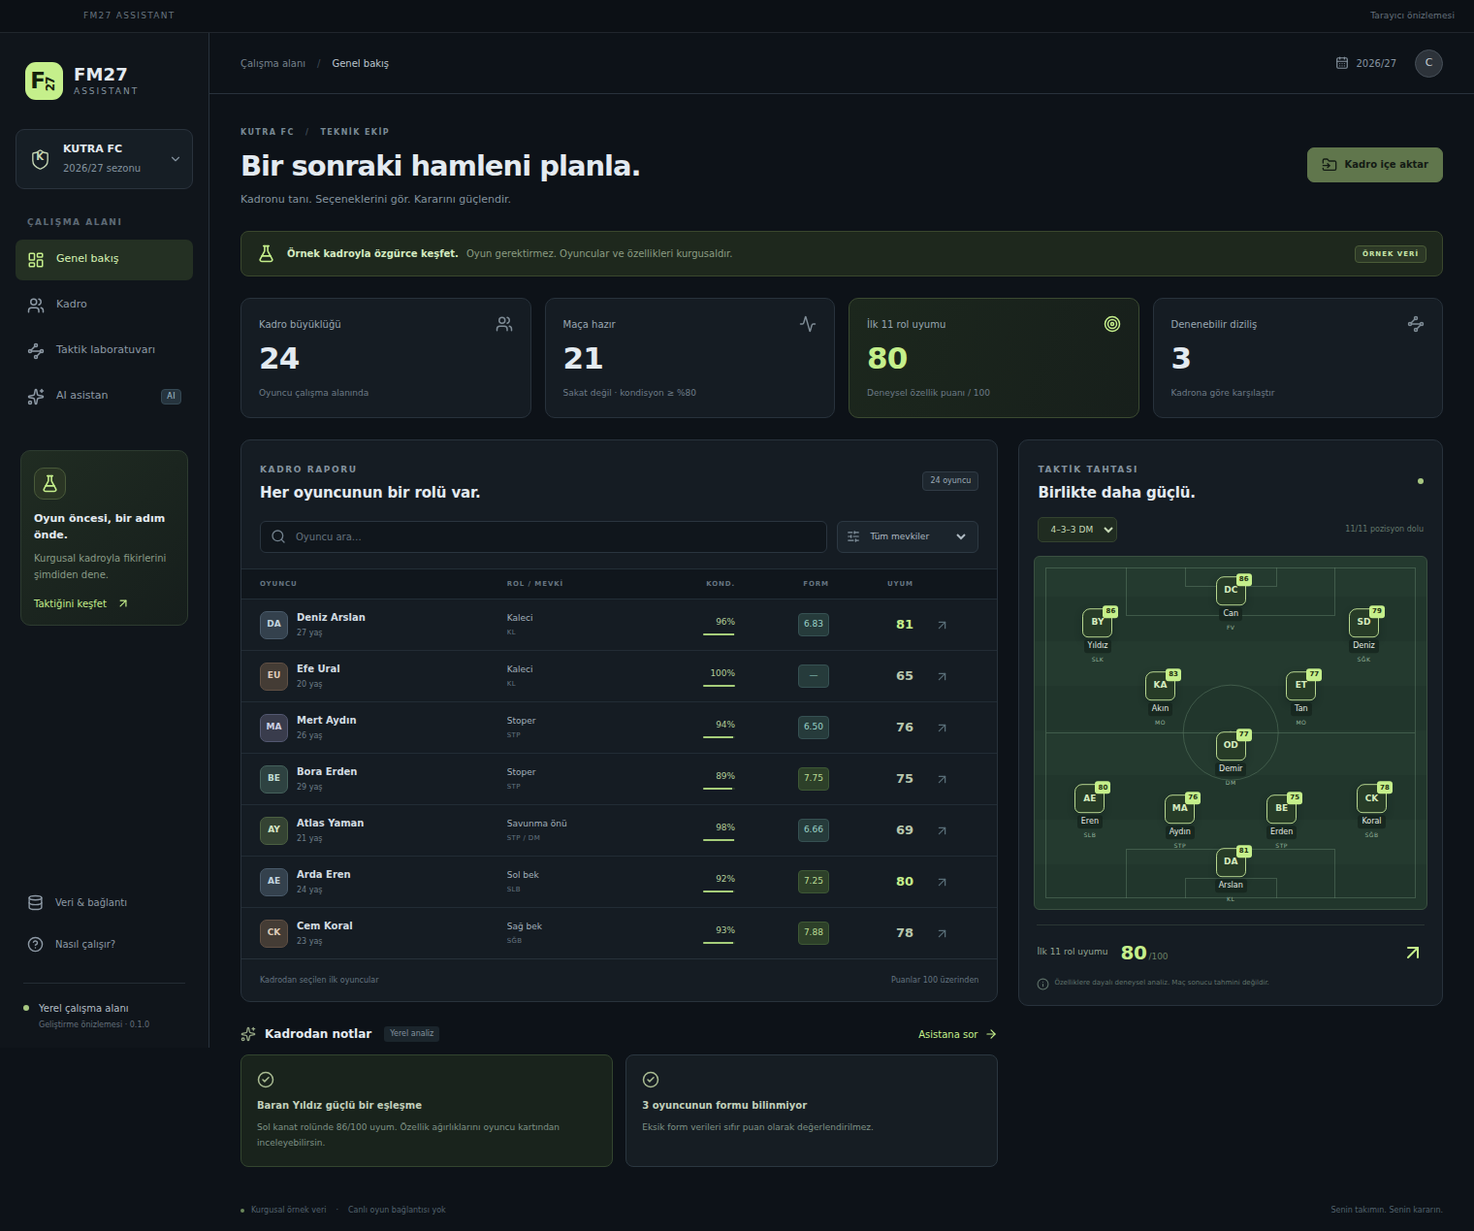
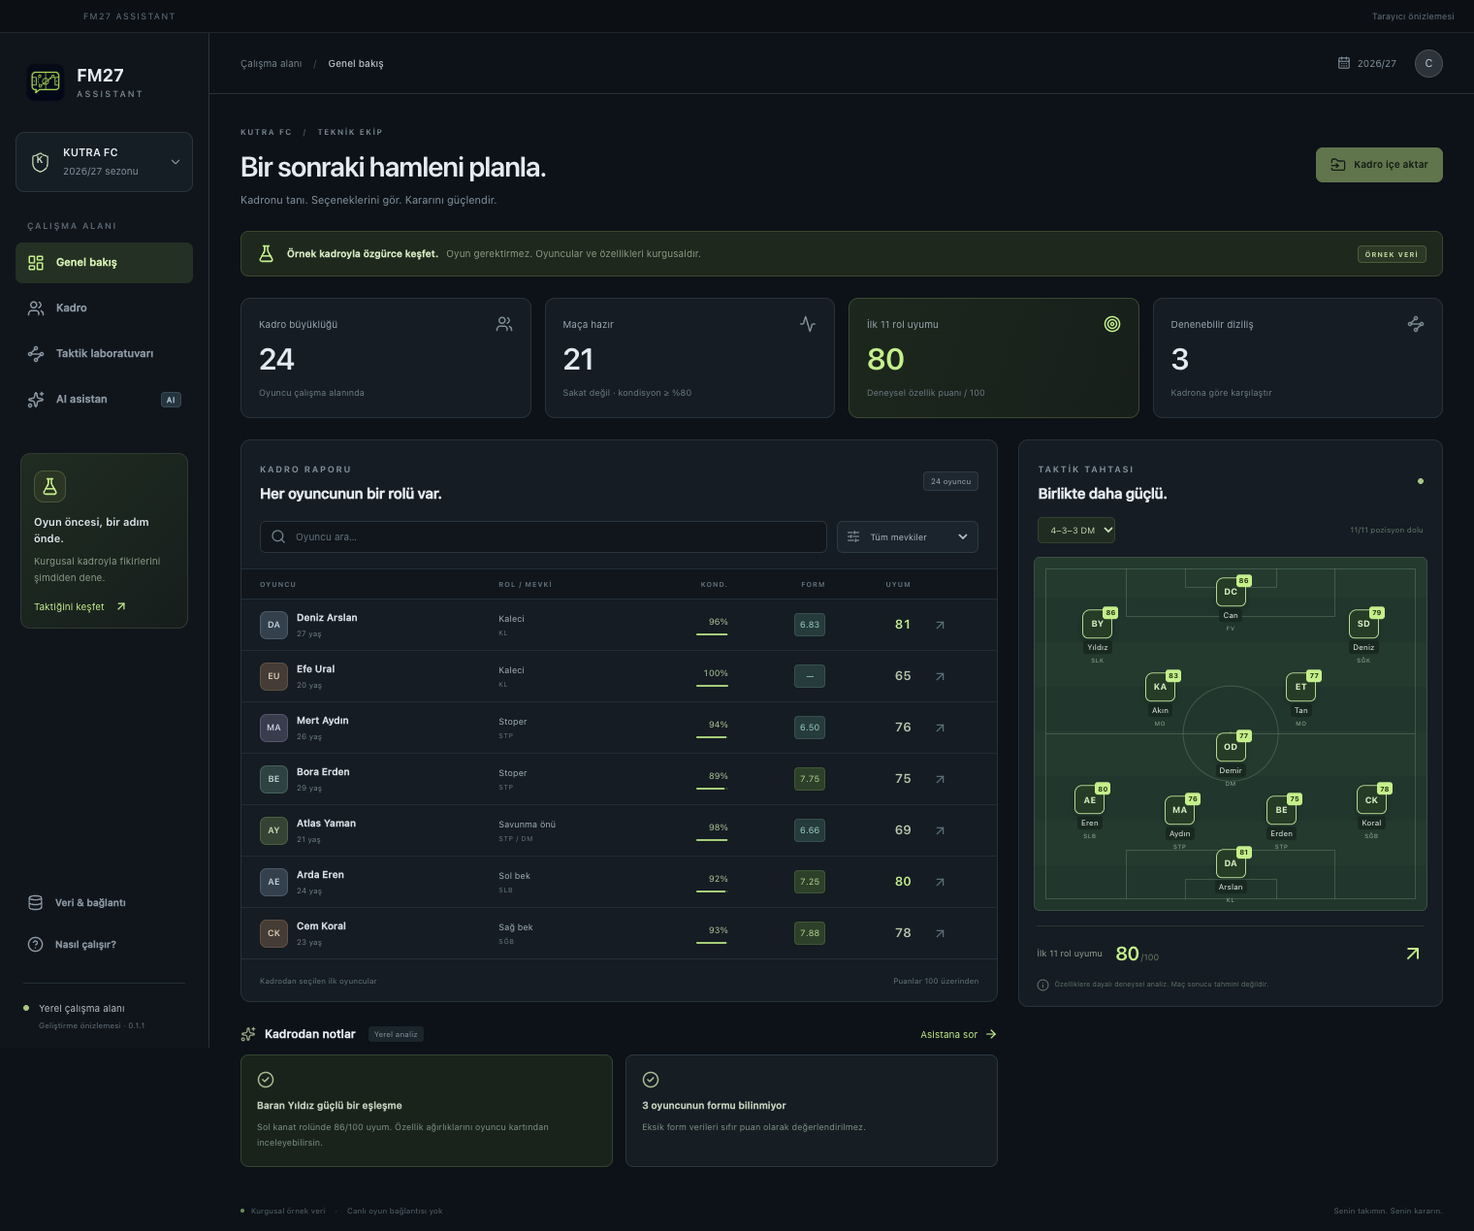
Brand the macOS preview and publish English project documentation

diff --git a/desktop/src/App.tsx b/desktop/src/App.tsx
@@ -1,6 +1,7 @@
 import { useCallback, useEffect, useRef, useState } from 'react';
 import { Activity, ArrowRight, ArrowUpRight, CalendarDays, CheckCircle2, ChevronDown, CircleHelp, Database, FlaskConical, FolderInput, LayoutDashboard, LoaderCircle, Shield, Sparkles, Target, Users, Waypoints, X } from 'lucide-react';
 import { api, native } from './api';
+import appIcon from './assets/fm27-icon.png';
 import { FORMATIONS, scoreText } from './types';
 import type { Dashboard, Formation, PlayerDetail, PlayerPage, Position } from './types';
 import Pitch from './components/Pitch';
@@ -96,11 +97,11 @@ export default function App() {
   const table = <PlayerTable page={page} search={search} position={position} onSearch={s => { setSearch(s); setOffset(0); }} onPosition={p => { setPosition(p); setOffset(0); }} onPlayer={id => { void openPlayer(id); }} onPage={setOffset} loading={loading} compact={view === 'overview'} />;
   return <div className="app-shell">
     <div className="window-drag" data-tauri-drag-region><span>FM27 ASSISTANT</span><span>{native ? 'Kişisel çalışma alanı' : 'Tarayıcı önizlemesi'}</span></div>
-    <aside className="sidebar"><button className="brand" onClick={() => setView('overview')} aria-label="Genel bakışa dön"><span className="brand-mark">F<span>27</span></span><span className="brand-word">FM27<span>ASSISTANT</span></span></button>
+    <aside className="sidebar"><button className="brand" onClick={() => setView('overview')} aria-label="Genel bakışa dön"><img className="brand-symbol" src={appIcon} alt="" width={42} height={42} /><span className="brand-word">FM27<span>ASSISTANT</span></span></button>
       <button className="club-switch" onClick={() => setView('data')}><span className="club-crest"><Shield size={23} strokeWidth={1.4} /><b>K</b></span><span><strong>{dashboard.club}</strong><small>{dashboard.season} sezonu</small></span><ChevronDown size={14} /></button>
       <span className="nav-heading">ÇALIŞMA ALANI</span><nav aria-label="Ana menü">{navigation.map(item => <button key={item.id} aria-label={item.label} className={view === item.id ? 'active' : ''} onClick={() => setView(item.id)} aria-current={view === item.id ? 'page' : undefined}><item.icon size={18} /><span>{item.label}</span>{item.id === 'assistant' ? <span className="nav-ai">AI</span> : null}</button>)}</nav>
       <div className="sidebar-note"><span className="note-orbit"><FlaskConical size={19} /></span><strong>Oyun öncesi, bir adım önde.</strong><p>Kurgusal kadroyla fikirlerini şimdiden dene.</p><button onClick={() => setView('tactics')}>Taktiğini keşfet <ArrowUpRight size={14} /></button></div>
-      <div className="sidebar-bottom"><button className={view === 'data' ? 'active' : ''} onClick={() => setView('data')}><Database size={17} />Veri & bağlantı</button><button onClick={() => { setView('data'); }}><CircleHelp size={17} />Nasıl çalışır?</button><div className="local-status"><span className="status-dot" /><span>Yerel çalışma alanı<small>Geliştirme önizlemesi · 0.1.0</small></span></div></div>
+      <div className="sidebar-bottom"><button className={view === 'data' ? 'active' : ''} onClick={() => setView('data')}><Database size={17} />Veri & bağlantı</button><button onClick={() => { setView('data'); }}><CircleHelp size={17} />Nasıl çalışır?</button><div className="local-status"><span className="status-dot" /><span>Yerel çalışma alanı<small>Geliştirme önizlemesi · 0.1.1</small></span></div></div>
     </aside>
     <main className="main-area"><header className="topbar"><div className="breadcrumb">Çalışma alanı<span>/</span><strong>{view === 'data' ? 'Veri & bağlantı' : navigation.find(n => n.id === view)?.label}</strong></div><div className="topbar-right"><span className="season-label"><CalendarDays size={14} />{dashboard.season}</span><span className="user-avatar">C</span></div></header>
       <div className="page-content"><div className="page-heading"><div><span className="eyebrow">{dashboard.club} <span className="eyebrow-slash">/</span> TEKNİK EKİP</span><h1>{headings[view].title}</h1><p>{headings[view].subtitle}</p></div><button className="button primary" onClick={() => fileInput.current?.click()} disabled={busy || chatBusy || !native}><FolderInput size={16} />Kadro içe aktar</button></div>

diff --git a/desktop/src/styles.css b/desktop/src/styles.css
@@ -23,8 +23,7 @@ svg { flex-shrink: 0; }
 .app-shell { min-height: 100vh; padding-top: 34px; }
 .sidebar { position: fixed; z-index: 20; inset: 34px auto 0 0; width: 216px; border-right: 1px solid var(--line); background: #10151b; display: flex; flex-direction: column; padding: 30px 16px 17px; }
 .brand { display: flex; align-items: center; gap: 11px; padding: 0 10px; border: 0; background: transparent; text-align: left; margin-bottom: 30px; }
-.brand-mark { height: 39px; width: 39px; display: flex; align-items: center; justify-content: center; font-size: 23px; line-height: 1; color: #15220b; font-weight: 850; border-radius: 11px; background: var(--lime); letter-spacing: -2px; }
-.brand-mark > span { font-size: 12px; transform: rotate(-90deg); margin: 6px 0 0 0; letter-spacing: -1px; }
+.brand-symbol { display: block; flex-shrink: 0; width: 42px; height: 42px; object-fit: contain; }
 .brand-word { font-size: 18px; font-weight: 730; line-height: 1.1; letter-spacing: .2px; }.brand-word > span { display: block; margin-top: 4px; font-size: 9px; color: var(--muted); font-weight: 500; letter-spacing: 2px; }
 .club-switch { width: 100%; display: flex; align-items: center; gap: 10px; padding: 12px 10px; border: 1px solid #2a333d; border-radius: 9px; background: #161e25; text-align: left; margin-bottom: 28px; }
 .club-switch > svg { margin-left: auto; color: var(--muted); }.club-switch strong { display: block; font-size: 11px; font-weight: 620; }.club-switch small { color: var(--muted); font-size: 10px; }

diff --git a/desktop/index.html b/desktop/index.html
@@ -5,6 +5,7 @@
     <meta name="viewport" content="width=device-width, initial-scale=1.0" />
     <meta name="color-scheme" content="dark" />
     <meta name="description" content="FM27 için kişisel kadro ve taktik çalışma alanı" />
+    <link rel="icon" type="image/png" href="/src/assets/fm27-icon.png" />
     <title>FM27 Assistant</title>
   </head>
   <body><div id="root"></div><script type="module" src="/src/main.tsx"></script></body>

diff --git a/desktop/crates/fm27-core/src/codex.rs b/desktop/crates/fm27-core/src/codex.rs
@@ -369,7 +369,7 @@ impl Session {
             next_id: 1,
             partial: Vec::new(),
         };
-        session.rpc("initialize", json!({"clientInfo":{"name":"fm27_assistant","title":"FM27 Assistant","version":"0.1.0"}}), &mut |_| Ok(())).await?;
+        session.rpc("initialize", json!({"clientInfo":{"name":"fm27_assistant","title":"FM27 Assistant","version":env!("CARGO_PKG_VERSION")}}), &mut |_| Ok(())).await?;
         session.send(json!({"method":"initialized"})).await?;
         Ok(session)
     }

diff --git a/README.md b/README.md
@@ -1,50 +1,66 @@
-# FM27 Assistant
+<p align="center">
+  <img src="desktop/src/assets/fm27-icon.png" width="112" height="112" alt="FM27 Assistant app icon">
+</p>
 
-Can için özel, oyun öncesinde de kullanılabilen bir taktik çalışma alanı.
-Aktif geliştirme **Rust + Tauri 2 + React + SQLite** üzerinde `desktop/` altında sürüyor.
+<h1 align="center">FM27 Assistant</h1>
+<p align="center"><strong>Your squad. Your system. Your next move.</strong></p>
+<p align="center">A personal football tactics workspace for macOS, built with Rust and Tauri.<br>Explore your squad, compare formations and discuss your decisions with an AI assistant.</p>
+<p align="center"><a href="https://github.com/cozcanco-hash/Fm27-Assistant/actions/workflows/rust-desktop.yml"><img src="https://github.com/cozcanco-hash/Fm27-Assistant/actions/workflows/rust-desktop.yml/badge.svg" alt="Rust desktop checks"></a></p>
+<p align="center"><a href="#try-it-on-mac">Try it on Mac</a> · <a href="#features">Features</a> · <a href="TESTING.md">Testing guide</a> · <a href="desktop/README.md">Developer docs</a></p>
 
-## İlk Rust Mac sürümü — 6 Kasım 2026
+![FM27 Assistant dashboard with a fictional squad, browser preview](screenshots/rust-desktop-overview.png)
 
-[Apple Silicon paketini indir](https://github.com/cozcanco-hash/Fm27-Assistant/actions/runs/42180058741/artifacts/13485093096).
-İndirilen ZIP içinde `.dmg`, `.app` arşivi ve SHA-256 kontrol dosyası bulunur.
-Paket 20 Kasım 2026'ya kadar saklanır; sonraki derlemeler Actions bölümünden alınabilir.
-Bu, ad-hoc imzalı bir geliştirici önizlemesidir.
+## Try it on Mac
 
-[Doğrulanan kaynak: `fa66465`](https://github.com/cozcanco-hash/Fm27-Assistant/commit/fa66465e02e145e6f7ca0ca4827ff5e85248ee39).
-[Başarılı test ve paketleme çalıştırması](https://github.com/cozcanco-hash/Fm27-Assistant/actions/runs/42180058741):
-**21 Rust testi + 4 arayüz testi başarılı**. Mac'teki gerçek paket WebView'i açtı;
-React arayüzü Rust/SQLite çekirdeğinden 24 oyuncuyu ve 11 kişilik öneriyi yükledi.
+**Apple Silicon developer preview · Turkish interface**
 
-| Apple Silicon CI ölçümü | Sonuç |
+1. Open [Rust desktop builds](https://github.com/cozcanco-hash/Fm27-Assistant/actions/workflows/rust-desktop.yml) and select the latest successful run for `main`.
+2. Under **Artifacts**, download **FM27-Assistant-rust-macos-arm64**. GitHub may ask you to sign in to download an Actions artifact.
+3. Extract the ZIP, open the `.dmg` and copy **FM27 Assistant** to Applications. The ZIP also includes an application archive and SHA-256 checksums.
+4. Launch the app and explore **KUTRA FC**, a squad of 24 fictional players. You do not need to own the game.
+
+This is an ad-hoc signed developer preview, without notarization. macOS may require approval in **System Settings → Privacy & Security** after the first launch attempt. Intel Macs have not been validated. You do not need Rust, Node.js or Java to run the built app. Actions downloads are retained for 14 days; use the latest successful build.
+
+[Follow the Mac testing guide →](TESTING.md)
+
+## Features
+
+| Feature | What you can do today |
 | --- | --- |
-| Uygulama paketi | 7,72 MiB |
-| DMG | 3,35 MiB |
-| Açılış → arayüz ve veri hazır | 4,152 saniye |
-| Sentetik 5.000 oyuncu / ilk 11 analizi | Ortanca 7,01 ms; p95 11,96 ms (25 tekrar) |
+| **Start before owning the game** | Explore a complete fictional squad with clearly marked demo data. |
+| **Understand your players** | Search the squad, filter by position and inspect attributes, recent form, condition, morale and minutes played. |
+| **Compare three formations** | Switch between 4–3–3 DM, 4–2–3–1 and 4–4–2 on an interactive tactic board. |
+| **Build a balanced starting XI** | Assign eligible players across all eleven positions without duplicates; injured players are excluded and condition affects selection. |
+| **See why a role fits** | Inspect weighted attribute scores and missing-data coverage. A score is shown only when at least 70% of the role's attribute weight is known. |
+| **Ask your AI assistant** | Use the local Codex integration to sign in with ChatGPT, choose an available model and receive streamed tactical advice with stop controls. |
+| **Bring your own squad data** | Import the app's validated JSON format, up to 4 MiB and 5,000 players. Invalid imports leave the current squad intact. |
+| **Pick up where you left off** | Keep the squad and selected formation in a local SQLite database between launches. |
 
-Ölçümler GitHub'ın Apple Silicon test ortamına aittir. Analiz süresi yerel rol ve
-ilk 11 hesabını kapsar. Kullanıcının Mac'inde ChatGPT girişi ve gerçek oyun verisiyle
-test henüz yapılmadı. Rust sürümünün kapsamı Java referansından farklı olduğu için
-bu rakamlar birebir Java/Rust hız karşılaştırması olarak sunulmaz.
+Role scores are transparent heuristics for this app. Form, morale and minutes provide context; they are not all part of the role-score formula. The system does not reproduce Football Manager's match engine or guarantee results.
 
-![Rust arayüzünün tarayıcı önizlemesi, kurgusal kadro](screenshots/rust-desktop-overview.png)
+### ChatGPT connection
 
-## Rust sürümünde
+AI features require the **official Codex CLI**, installed separately, and your own ChatGPT account with Codex access. Subscription limits apply. The app does not take an API key. It sends the selected XI, up to 20 alternatives and bounded recent conversation to Codex when you send a message; no model request is made just by opening the app. Authentication is handled by Codex.
 
-- 24 kurgusal oyuncuyla hemen başlayan çalışma alanı.
-- Kadro arama, mevki filtresi, oyuncu özellikleri ve açıklanabilir rol puanları.
-- 4–3–3 DM, 4–2–3–1 ve 4–4–2 saha görünümü; aynı oyuncuyu iki kez seçmeyen ilk 11 analizi.
-- Doğrulamalı özel JSON kadro aktarımı ve Mac'te kalıcı SQLite kaydı.
-- Yerel Codex üzerinden ChatGPT girişi, model seçimi ve akış halinde AI sohbeti.
+Squad analysis runs locally; AI chat uses the connected service. Real ChatGPT sign-in and replies still need testing on a user's Mac. Automated tests verify the integration protocol with a fake CLI without consuming AI credits.
 
-**Oyun sahibi olman gerekmiyor.** Örnek kadro tamamen kurgusal; gerçek FM27
-verisi veya oyuna canlı bağlantı içermiyor. Bu ilk Rust sürümü, Java projesindeki
-tüm özelliklerin taşındığı bir sürüm değildir. Gerçek hesap ve oyun testi ayrıca yapılacak.
+## Current scope
 
-- [Kurulum, geliştirme ve veri şeması](desktop/README.md)
-- [Rust testleri ve Apple Silicon paketleri](https://github.com/cozcanco-hash/Fm27-Assistant/actions/workflows/rust-desktop.yml)
-- [Kurgusal örnek kadro](desktop/fixtures/demo-squad.json)
-- [Önceki Java önizlemesi ve doğrulaması](JAVA_PREVIEW.md)
+This is an early companion app. The current Rust version supports demo data and the app's **custom JSON schema**, not automatic imports from every FM export. Live game reading, save-file parsing, `.fmf` decoding, automatic in-game control and the Java reference's recruitment/staff features have not been implemented in the Rust app. FM27 compatibility remains to be verified with actual game data.
+
+The screenshot above is the browser preview. It uses Rust-generated analysis; imports, persistence and real AI require the native desktop app.
+
+## Built for macOS
+
+| Layer | Technology |
+| --- | --- |
+| Desktop shell | Tauri 2 and the system WebView |
+| Validation, role analysis and lineup assignment | Rust |
+| Interface | React and TypeScript |
+| Local squad storage | SQLite |
+| Optional AI connection | Local Codex app-server |
+
+Active development lives in [`desktop/`](desktop/). The original Java application is retained separately as a reference; this is a focused Rust implementation.
 
 ```bash
 cd desktop
@@ -52,14 +68,39 @@ npm ci
 npm run desktop:dev
 ```
 
-Geliştirme için Rust, Node.js 24 ve Xcode komut satırı araçları gerekir.
-Derlenmiş Mac uygulamasında Rust, Node veya Java kurulumu gerekmez.
-ChatGPT özellikleri için resmi Codex CLI ve kullanıcının kendi hesabıyla giriş gerekir.
+Development requires Node.js 24, the pinned Rust toolchain and Xcode command-line tools. See the [developer documentation](desktop/README.md) for native builds, checks and the [sample data](desktop/fixtures/demo-squad.json).
 
-## Kaynak geçmişi
+## Verification
 
-Java referansı [JelmerBouma1985/fm-ai-assistent](https://github.com/JelmerBouma1985/fm-ai-assistent)
-projesinin `a06ac845acfd6c0eccbd61e3a633b3518584e457` commitinden aktarılmıştır.
-Orijinal dokümantasyon [README_UPSTREAM.md](README_UPSTREAM.md) dosyasında korunur.
-Rust çalışma alanı bu depoda yeni uygulanmıştır. Depo özel tutulur; upstream kod
-üzerinde yeni bir lisans hakkı beyan edilmez.
+The pipeline checks Rust formatting, Clippy, core tests, browser interactions and the native Apple Silicon build. A native smoke test opens the packaged app and requires React to read all 24 demo players and the 11-player lineup from the Rust/SQLite backend. See [the workflow and downloadable reports](https://github.com/cozcanco-hash/Fm27-Assistant/actions/workflows/rust-desktop.yml).
+
+<details>
+<summary>Measured v0.1.0 baseline — 6 November 2026</summary>
+
+[Verified source](https://github.com/cozcanco-hash/Fm27-Assistant/commit/fa66465e02e145e6f7ca0ca4827ff5e85248ee39) · [Successful run: 21 Rust tests and 4 browser tests](https://github.com/cozcanco-hash/Fm27-Assistant/actions/runs/42180058741)
+
+| Apple Silicon CI measurement | Result |
+| --- | --- |
+| Application bundle | 7.72 MiB |
+| DMG | 3.35 MiB |
+| Launch to interface and data ready | 4.152 seconds |
+| Synthetic 5,000-player lineup calculation | Median 7.01 ms; p95 11.96 ms across 25 runs |
+
+These are measurements from the earlier v0.1.0 CI build, before the new icon. The lineup benchmark excludes interface, network and AI latency. These results are not a Java-versus-Rust comparison or a performance guarantee for every Mac.
+</details>
+
+## Next milestones
+
+- Complete real-account and MacBook testing.
+- Add manual tactic instructions and richer role definitions.
+- Add squad editing and snapshot comparison/restore controls.
+- Build import adapters against real game exports and verify game compatibility.
+- Prepare signing and notarization for wider distribution.
+
+## Project history
+
+FM27 Assistant is a KUTRA project. The icon combines a football tactics board, a passing route and a conversation bubble in charcoal and lime.
+
+The Java reference was imported from [JelmerBouma1985/fm-ai-assistent](https://github.com/JelmerBouma1985/fm-ai-assistent) at commit `a06ac845acfd6c0eccbd61e3a633b3518584e457`. Its documentation is preserved in [README_UPSTREAM.md](README_UPSTREAM.md), with previous Mac validation in [JAVA_PREVIEW.md](JAVA_PREVIEW.md). No new license grant is asserted over the upstream code.
+
+This is an independent project, unaffiliated with Sports Interactive or SEGA.

diff --git a/TESTING.md b/TESTING.md
@@ -1,0 +1,49 @@
+# MacBook testing guide
+
+Thank you for testing FM27 Assistant. The current preview is for **Apple Silicon Macs (M1 or later)** and has a Turkish interface. You do not need Football Manager or an AI account for the local squad and tactics features.
+
+## Install
+
+1. Open [Rust desktop builds](https://github.com/cozcanco-hash/Fm27-Assistant/actions/workflows/rust-desktop.yml).
+2. Select the latest successful run on `main` and download the **FM27-Assistant-rust-macos-arm64** artifact. A GitHub account may be required.
+3. Extract it, open the `.dmg` and copy the app to Applications. The download also contains an app ZIP and `SHA256SUMS.txt`.
+4. Open **FM27 Assistant**. This developer preview is ad-hoc signed, without notarization. If macOS blocks it, review the app approval under **System Settings → Privacy & Security** after attempting to open it.
+
+Test only a build from this repository. The version appears in the sidebar. No developer tools are needed for installation.
+
+## Ten-minute local check
+
+| Step | Action | Expected result |
+| --- | --- | --- |
+| 1 | Launch the app. | The overview opens with KUTRA FC, 24 players and an explicit demo-data label. |
+| 2 | Open **Kadro** and search for `Deniz`; filter to `GK`. | Deniz Arslan is the matching goalkeeper. |
+| 3 | Open the player's profile, then press Escape. | Attributes and player context are visible; Escape closes the profile. |
+| 4 | Open **Taktik laboratuvarı**; try all three formations. | The board updates with 11 unique eligible players and role-fit information. |
+| 5 | Leave a different formation selected, quit fully and relaunch. | The selected formation is preserved. |
+| 6 | Open **Veri & bağlantı** and import [demo-squad.json](desktop/fixtures/demo-squad.json), downloaded as a raw JSON file. | Valid sample data loads with its fictional/demo provenance. |
+| 7 | Try importing a `.json` file containing `invalid json`. | A validation error appears; the last valid squad remains available. |
+| 8 | Resize the window and navigate between all sections. | Text, controls and the tactic board remain usable. |
+
+Imported data follows [the documented schema](desktop/README.md#data-contract). This is not a live FM connection. The browser preview cannot test native JSON import or persistence.
+
+## Optional ChatGPT check
+
+This part requires the official Codex CLI and a ChatGPT account with Codex access. Use your own account; usage limits apply.
+
+1. Install Codex from its official distribution if it is not already available.
+2. In **Veri & bağlantı**, check the connection and follow the ChatGPT sign-in flow when needed. Keep credentials in the official sign-in flow.
+3. Open **AI asistan**, choose an available model and ask which of the three formations fits the current squad. The response should stream into the chat.
+4. Send a follow-up about a named player. Check whether the answer respects the fictional data and actual attributes. Try stopping a response.
+
+This is a real-account acceptance check; it has not been claimed as passed by the automated tests. The app supplies the selected XI, up to 20 alternatives and bounded recent conversation when a message is sent. Advice should acknowledge missing data. It cannot control the game.
+
+## Report findings
+
+Use [GitHub Issues](https://github.com/cozcanco-hash/Fm27-Assistant/issues) with:
+
+- Mac chip, macOS version and app version.
+- The action you tried, what you expected and what happened.
+- Whether the issue repeats after quitting and reopening the app.
+- A screenshot or exact error text, with account details removed.
+
+Do not include passwords, tokens or other sign-in credentials. Useful feedback includes layout problems, unclear explanations, bad lineup choices and AI connection errors, as well as crashes.

diff --git a/desktop/README.md b/desktop/README.md
@@ -1,9 +1,16 @@
 # FM27 Assistant — Rust desktop
 
-Personal, local macOS tactical workspace for Can. **Rust + Tauri 2 + React +
+A personal, local macOS tactical workspace. **Rust + Tauri 2 + React +
 SQLite.** Designed to be useful before owning the game. Starts with 24 fictional
 players and calculates its analysis in Rust. No JVM or Spring server is needed
 to render the desktop interface.
+
+## Branding
+
+The shared app icon is `src/assets/fm27-icon.png`. It is used in the interface,
+the repository README and the generated macOS icon set. Regenerate platform icons
+with `npm run icons`. The mark combines a tactics board, passing route and
+conversation bubble in the app’s charcoal/lime palette.
 
 ## Implemented in this first Rust version
 
